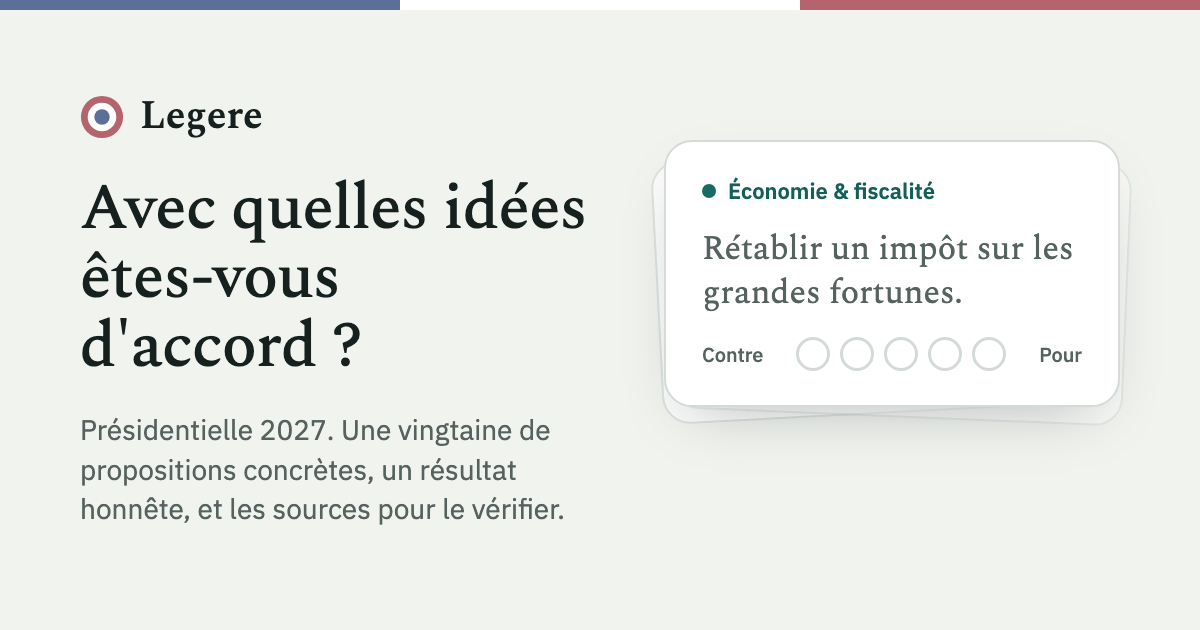
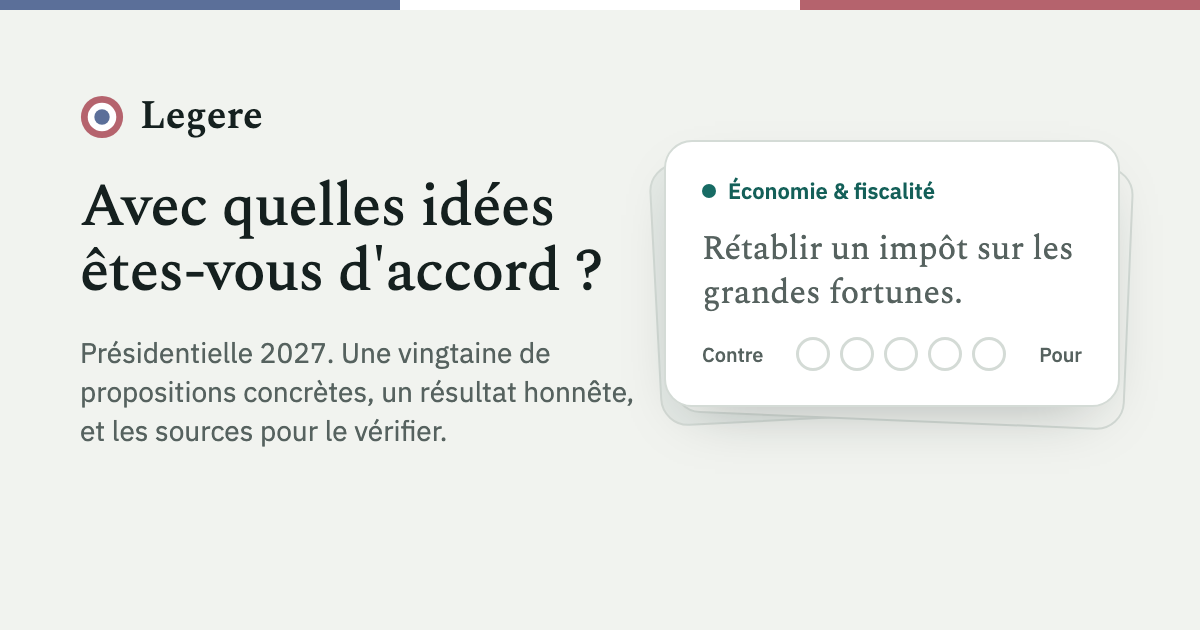
OG card on the new identity; sheet uses the shared radius token

Changed region(s): [[0.0617, 0.5127, 0.5242, 0.8444], [0.0617, 0.2714, 0.5242, 0.4825], [0.5858, 0.6333, 0.6475, 0.6635]]

diff --git a/src/app.html b/src/app.html
@@ -223,7 +223,7 @@ kbd { font: 12px var(--sans); border: 1px solid var(--line); border-bottom-width
 .foot .fine { display: flex; flex-wrap: wrap; gap: 4px 18px; font-size: 13.5px; }
 
 /* sheet (dialog) */
-dialog.sheet { border: 0; padding: 0; background: var(--card); color: var(--ink); border-radius: 18px 18px 0 0; width: 100%; max-width: 100%; margin: auto 0 0; max-height: 85vh; max-height: 85dvh; box-shadow: 0 -10px 40px rgba(0,0,0,.25); }
+dialog.sheet { border: 0; padding: 0; background: var(--card); color: var(--ink); border-radius: var(--r-lg) var(--r-lg) 0 0; width: 100%; max-width: 100%; margin: auto 0 0; max-height: 85vh; max-height: 85dvh; box-shadow: 0 -10px 40px rgba(0,0,0,.25); }
 dialog.sheet::backdrop { background: rgba(0,0,0,.45); }
 dialog.sheet .inner { padding: 12px 20px 28px; display: flex; flex-direction: column; gap: 14px; overflow: auto; max-height: 85dvh; }
 dialog.sheet .grip { width: 40px; height: 4px; border-radius: 2px; background: var(--line); margin: 0 auto 4px; }
@@ -232,7 +232,7 @@ dialog.sheet h2 { font-size: 22px; padding-top: 6px; }
 dialog.sheet .block { display: flex; flex-direction: column; gap: 4px; font-size: 16px; line-height: 1.45; }
 dialog.sheet .block .label { color: var(--ink); font-weight: 600; }
 @media (min-width: 640px) {
-  dialog.sheet { margin: auto; border-radius: 18px; max-width: 560px; }
+  dialog.sheet { margin: auto; border-radius: var(--r-lg); max-width: 560px; }
   dialog.sheet .grip { display: none; }
 }
 
